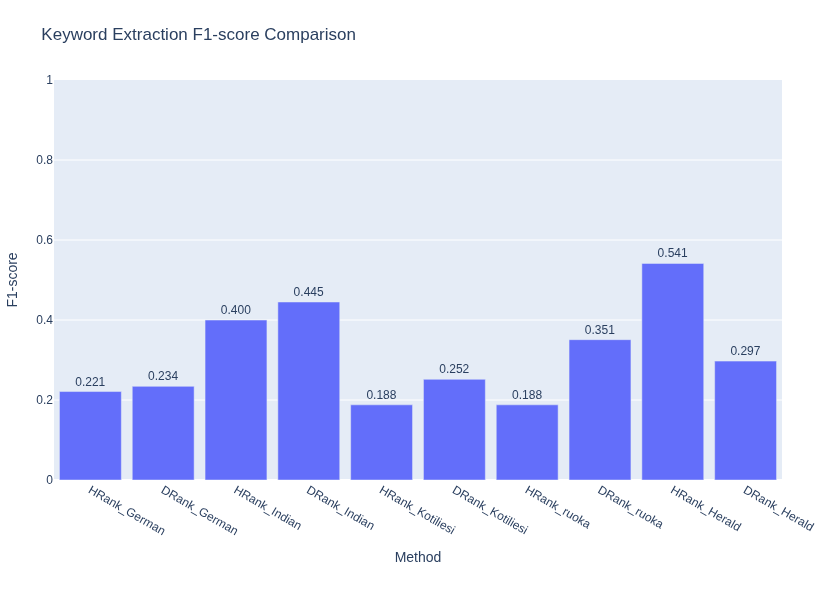
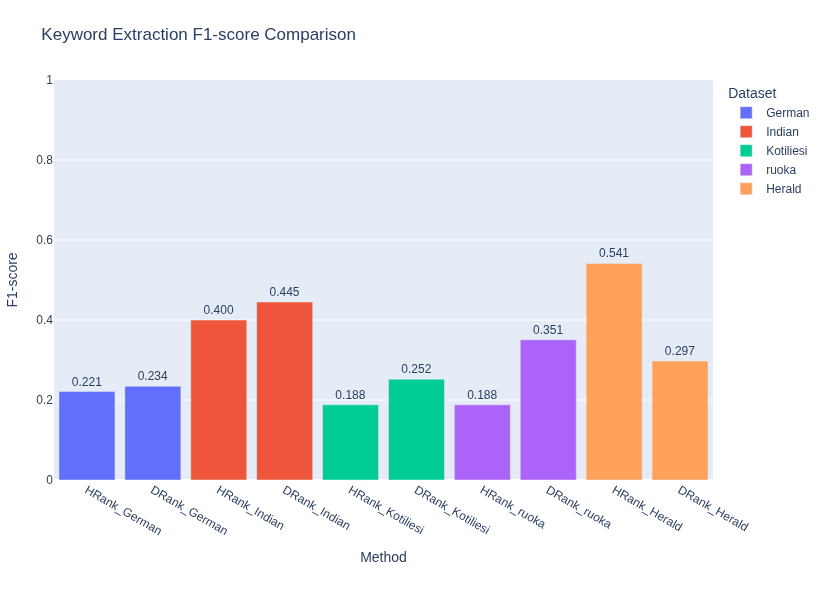
complete all basic

diff --git a/compare_results_barchart.py b/compare_results_barchart.py
@@ -66,13 +66,16 @@ except Exception as e:
     print(f"Error details: {e}")
 
 # Create and save F1-score only bar chart
+df["Dataset"] = df["DataSet"].str.split("_").str[-1]
+df["Method"] = df["DataSet"].str.split("_").str[0]
 fig_f1 = px.bar(
     df,
     x="DataSet",
     y="F1-score",
+    color="Dataset",
     text="F1-score",
     title="Keyword Extraction F1-score Comparison",
-    labels={"DataSet": "Method", "F1-score": "F1-score"},
+    labels={"DataSet": "Method", "F1-score": "F1-score", "Dataset": "Dataset"},
     height=600,
     width=827
 )
